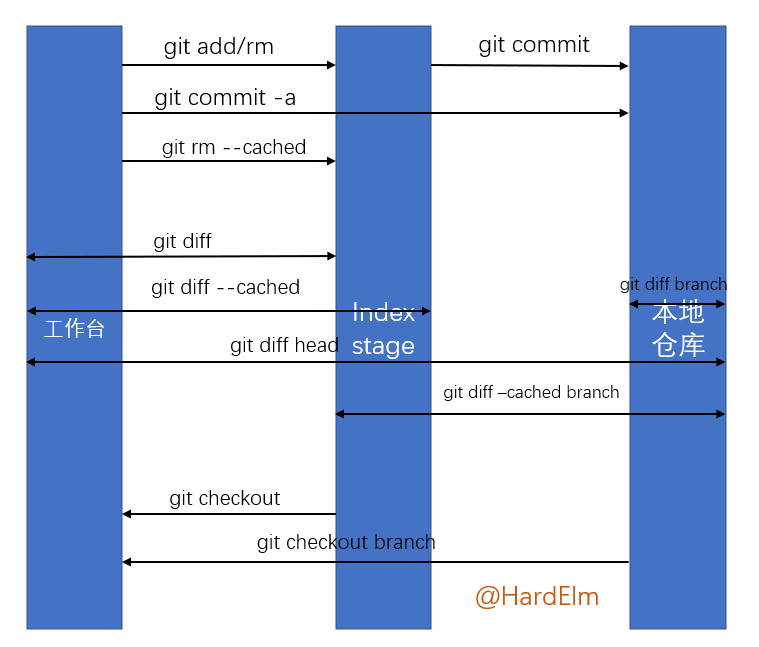
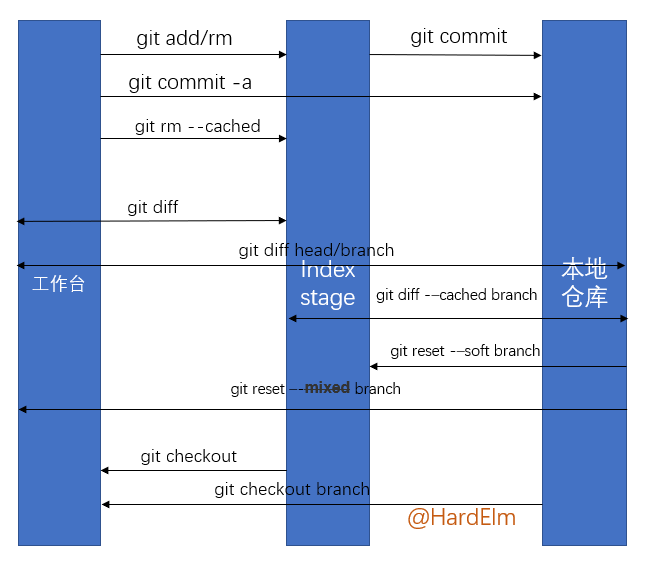
git流程图修改

Changed region(s): [[0.0, 0.03, 0.9682, 0.9912]]

diff --git a/post/git常用命令/index.html b/post/git常用命令/index.html
@@ -76,7 +76,7 @@
 <meta itemprop="name" content="Git常用命令">
 <meta itemprop="description" content="常规流程 init本地初始化&ndash;&gt;add更新暂存区&ndash;&gt;commit暂存区更新至版本库&ndash;&gt;p"><meta itemprop="datePublished" content="2023-03-02T23:56:03+00:00" />
 <meta itemprop="dateModified" content="2023-03-02T23:56:03+00:00" />
-<meta itemprop="wordCount" content="1015">
+<meta itemprop="wordCount" content="1084">
 <meta itemprop="keywords" content="Git," /><meta name="twitter:card" content="summary"/>
 <meta name="twitter:title" content="Git常用命令"/>
 <meta name="twitter:description" content="常规流程 init本地初始化&ndash;&gt;add更新暂存区&ndash;&gt;commit暂存区更新至版本库&ndash;&gt;p"/>
@@ -301,7 +301,7 @@
 
   <div class="post-meta__right">
     <span class="post-meta-more">
-        约 1015 字 -
+        约 1084 字 -
         预计阅读 3 分钟
       </span>
 
@@ -348,24 +348,28 @@
 </span></span><span style="display:flex;"><span style="white-space:pre;user-select:none;margin-right:0.4em;padding:0 0.4em 0 0.4em;color:#7f7f7f" id="hl-3-2"><a style="outline:none;text-decoration:none;color:inherit" href="#hl-3-2">2</a></span><span>git merge &lt;库&gt;/&lt;分支&gt; #提取数据并尝试合并到当前分支
 </span></span><span style="display:flex;"><span style="white-space:pre;user-select:none;margin-right:0.4em;padding:0 0.4em 0 0.4em;color:#7f7f7f" id="hl-3-3"><a style="outline:none;text-decoration:none;color:inherit" href="#hl-3-3">3</a></span><span>
 </span></span><span style="display:flex;"><span style="white-space:pre;user-select:none;margin-right:0.4em;padding:0 0.4em 0 0.4em;color:#7f7f7f" id="hl-3-4"><a style="outline:none;text-decoration:none;color:inherit" href="#hl-3-4">4</a></span><span>git pull &lt;远程库&gt; &lt;远程分支&gt;:&lt;本地分支&gt; #拉取远程库的分支至本地，与本地分支合并
+</span></span></code></pre></div><h3 id="diff">diff</h3>
+<div class="highlight"><pre tabindex="0" style="background-color:#fff;-moz-tab-size:4;-o-tab-size:4;tab-size:4;"><code class="language-fallback" data-lang="fallback"><span style="display:flex;"><span style="white-space:pre;user-select:none;margin-right:0.4em;padding:0 0.4em 0 0.4em;color:#7f7f7f" id="hl-4-1"><a style="outline:none;text-decoration:none;color:inherit" href="#hl-4-1">1</a></span><span>git diff #比较工作台与暂存区区别
+</span></span><span style="display:flex;"><span style="white-space:pre;user-select:none;margin-right:0.4em;padding:0 0.4em 0 0.4em;color:#7f7f7f" id="hl-4-2"><a style="outline:none;text-decoration:none;color:inherit" href="#hl-4-2">2</a></span><span>git diff --cached &lt;版本&gt; #比较暂存区与本地库区别
+</span></span><span style="display:flex;"><span style="white-space:pre;user-select:none;margin-right:0.4em;padding:0 0.4em 0 0.4em;color:#7f7f7f" id="hl-4-3"><a style="outline:none;text-decoration:none;color:inherit" href="#hl-4-3">3</a></span><span>git diff head/&lt;版本&gt; #比较本地库与工作台区别
 </span></span></code></pre></div><h3 id="reset和revert">reset和revert</h3>
-<div class="highlight"><pre tabindex="0" style="background-color:#fff;-moz-tab-size:4;-o-tab-size:4;tab-size:4;"><code class="language-fallback" data-lang="fallback"><span style="display:flex;"><span style="white-space:pre;user-select:none;margin-right:0.4em;padding:0 0.4em 0 0.4em;color:#7f7f7f" id="hl-4-1"><a style="outline:none;text-decoration:none;color:inherit" href="#hl-4-1">1</a></span><span>git reset head #取消当前版本在暂存区的缓存
-</span></span><span style="display:flex;"><span style="white-space:pre;user-select:none;margin-right:0.4em;padding:0 0.4em 0 0.4em;color:#7f7f7f" id="hl-4-2"><a style="outline:none;text-decoration:none;color:inherit" href="#hl-4-2">2</a></span><span>git reset --mixed &lt;版本&gt; #回退至指定版本 （回退重置到工作区）
-</span></span><span style="display:flex;"><span style="white-space:pre;user-select:none;margin-right:0.4em;padding:0 0.4em 0 0.4em;color:#7f7f7f" id="hl-4-3"><a style="outline:none;text-decoration:none;color:inherit" href="#hl-4-3">3</a></span><span>#mixed为默认参数可省略，用于重置暂存区的文件与回退版本提交(commit)保持一致，工作区文件内容保持不变
-</span></span><span style="display:flex;"><span style="white-space:pre;user-select:none;margin-right:0.4em;padding:0 0.4em 0 0.4em;color:#7f7f7f" id="hl-4-4"><a style="outline:none;text-decoration:none;color:inherit" href="#hl-4-4">4</a></span><span>git reset --soft &lt;版本&gt; #回退到指定版本（回退操作止步暂存区）
-</span></span><span style="display:flex;"><span style="white-space:pre;user-select:none;margin-right:0.4em;padding:0 0.4em 0 0.4em;color:#7f7f7f" id="hl-4-5"><a style="outline:none;text-decoration:none;color:inherit" href="#hl-4-5">5</a></span><span>git reset --hard &lt;版本&gt; #回退且删除版本间信息提交（慎用）
-</span></span><span style="display:flex;"><span style="white-space:pre;user-select:none;margin-right:0.4em;padding:0 0.4em 0 0.4em;color:#7f7f7f" id="hl-4-6"><a style="outline:none;text-decoration:none;color:inherit" href="#hl-4-6">6</a></span><span>
-</span></span><span style="display:flex;"><span style="white-space:pre;user-select:none;margin-right:0.4em;padding:0 0.4em 0 0.4em;color:#7f7f7f" id="hl-4-7"><a style="outline:none;text-decoration:none;color:inherit" href="#hl-4-7">7</a></span><span>git revert &lt;版本&gt; #reflog取得commit哈希值，撤销后重新push
-</span></span><span style="display:flex;"><span style="white-space:pre;user-select:none;margin-right:0.4em;padding:0 0.4em 0 0.4em;color:#7f7f7f" id="hl-4-8"><a style="outline:none;text-decoration:none;color:inherit" href="#hl-4-8">8</a></span><span>#revert相当于做出反向变动，push后起到对指定的commit的抵消作用
+<div class="highlight"><pre tabindex="0" style="background-color:#fff;-moz-tab-size:4;-o-tab-size:4;tab-size:4;"><code class="language-fallback" data-lang="fallback"><span style="display:flex;"><span style="white-space:pre;user-select:none;margin-right:0.4em;padding:0 0.4em 0 0.4em;color:#7f7f7f" id="hl-5-1"><a style="outline:none;text-decoration:none;color:inherit" href="#hl-5-1">1</a></span><span>git reset head #取消当前版本在暂存区的缓存
+</span></span><span style="display:flex;"><span style="white-space:pre;user-select:none;margin-right:0.4em;padding:0 0.4em 0 0.4em;color:#7f7f7f" id="hl-5-2"><a style="outline:none;text-decoration:none;color:inherit" href="#hl-5-2">2</a></span><span>git reset --mixed &lt;版本&gt; #回退至指定版本 （回退重置到工作区）
+</span></span><span style="display:flex;"><span style="white-space:pre;user-select:none;margin-right:0.4em;padding:0 0.4em 0 0.4em;color:#7f7f7f" id="hl-5-3"><a style="outline:none;text-decoration:none;color:inherit" href="#hl-5-3">3</a></span><span>#mixed为默认参数可省略，用于重置暂存区的文件与回退版本提交(commit)保持一致，工作区文件内容保持不变
+</span></span><span style="display:flex;"><span style="white-space:pre;user-select:none;margin-right:0.4em;padding:0 0.4em 0 0.4em;color:#7f7f7f" id="hl-5-4"><a style="outline:none;text-decoration:none;color:inherit" href="#hl-5-4">4</a></span><span>git reset --soft &lt;版本&gt; #回退到指定版本（回退操作止步暂存区）
+</span></span><span style="display:flex;"><span style="white-space:pre;user-select:none;margin-right:0.4em;padding:0 0.4em 0 0.4em;color:#7f7f7f" id="hl-5-5"><a style="outline:none;text-decoration:none;color:inherit" href="#hl-5-5">5</a></span><span>git reset --hard &lt;版本&gt; #回退且删除版本间信息提交（慎用）
+</span></span><span style="display:flex;"><span style="white-space:pre;user-select:none;margin-right:0.4em;padding:0 0.4em 0 0.4em;color:#7f7f7f" id="hl-5-6"><a style="outline:none;text-decoration:none;color:inherit" href="#hl-5-6">6</a></span><span>
+</span></span><span style="display:flex;"><span style="white-space:pre;user-select:none;margin-right:0.4em;padding:0 0.4em 0 0.4em;color:#7f7f7f" id="hl-5-7"><a style="outline:none;text-decoration:none;color:inherit" href="#hl-5-7">7</a></span><span>git revert &lt;版本&gt; #reflog取得commit哈希值，撤销后重新push
+</span></span><span style="display:flex;"><span style="white-space:pre;user-select:none;margin-right:0.4em;padding:0 0.4em 0 0.4em;color:#7f7f7f" id="hl-5-8"><a style="outline:none;text-decoration:none;color:inherit" href="#hl-5-8">8</a></span><span>#revert相当于做出反向变动，push后起到对指定的commit的抵消作用
 </span></span></code></pre></div><h3 id="remote">remote</h3>
 <p>remote用来操作配置远程仓库</p>
-<div class="highlight"><pre tabindex="0" style="background-color:#fff;-moz-tab-size:4;-o-tab-size:4;tab-size:4;"><code class="language-fallback" data-lang="fallback"><span style="display:flex;"><span style="white-space:pre;user-select:none;margin-right:0.4em;padding:0 0.4em 0 0.4em;color:#7f7f7f" id="hl-5-1"><a style="outline:none;text-decoration:none;color:inherit" href="#hl-5-1">1</a></span><span>git remote -v 
-</span></span><span style="display:flex;"><span style="white-space:pre;user-select:none;margin-right:0.4em;padding:0 0.4em 0 0.4em;color:#7f7f7f" id="hl-5-2"><a style="outline:none;text-decoration:none;color:inherit" href="#hl-5-2">2</a></span><span>git remote show &lt;仓库名&gt;
-</span></span><span style="display:flex;"><span style="white-space:pre;user-select:none;margin-right:0.4em;padding:0 0.4em 0 0.4em;color:#7f7f7f" id="hl-5-3"><a style="outline:none;text-decoration:none;color:inherit" href="#hl-5-3">3</a></span><span>git remote add &lt;新仓库&gt; &lt;url&gt; #向远程主机提交新仓库
-</span></span><span style="display:flex;"><span style="white-space:pre;user-select:none;margin-right:0.4em;padding:0 0.4em 0 0.4em;color:#7f7f7f" id="hl-5-4"><a style="outline:none;text-decoration:none;color:inherit" href="#hl-5-4">4</a></span><span>git push -u &lt;仓库&gt;&lt;分支&gt;
-</span></span><span style="display:flex;"><span style="white-space:pre;user-select:none;margin-right:0.4em;padding:0 0.4em 0 0.4em;color:#7f7f7f" id="hl-5-5"><a style="outline:none;text-decoration:none;color:inherit" href="#hl-5-5">5</a></span><span>
-</span></span><span style="display:flex;"><span style="white-space:pre;user-select:none;margin-right:0.4em;padding:0 0.4em 0 0.4em;color:#7f7f7f" id="hl-5-6"><a style="outline:none;text-decoration:none;color:inherit" href="#hl-5-6">6</a></span><span>git remote rm &lt;仓库名&gt; #删除远程仓库
-</span></span><span style="display:flex;"><span style="white-space:pre;user-select:none;margin-right:0.4em;padding:0 0.4em 0 0.4em;color:#7f7f7f" id="hl-5-7"><a style="outline:none;text-decoration:none;color:inherit" href="#hl-5-7">7</a></span><span>git remote rename &lt;旧名称&gt; &lt;新名称&gt; #修改远程仓库名
+<div class="highlight"><pre tabindex="0" style="background-color:#fff;-moz-tab-size:4;-o-tab-size:4;tab-size:4;"><code class="language-fallback" data-lang="fallback"><span style="display:flex;"><span style="white-space:pre;user-select:none;margin-right:0.4em;padding:0 0.4em 0 0.4em;color:#7f7f7f" id="hl-6-1"><a style="outline:none;text-decoration:none;color:inherit" href="#hl-6-1">1</a></span><span>git remote -v 
+</span></span><span style="display:flex;"><span style="white-space:pre;user-select:none;margin-right:0.4em;padding:0 0.4em 0 0.4em;color:#7f7f7f" id="hl-6-2"><a style="outline:none;text-decoration:none;color:inherit" href="#hl-6-2">2</a></span><span>git remote show &lt;仓库名&gt;
+</span></span><span style="display:flex;"><span style="white-space:pre;user-select:none;margin-right:0.4em;padding:0 0.4em 0 0.4em;color:#7f7f7f" id="hl-6-3"><a style="outline:none;text-decoration:none;color:inherit" href="#hl-6-3">3</a></span><span>git remote add &lt;新仓库&gt; &lt;url&gt; #向远程主机提交新仓库
+</span></span><span style="display:flex;"><span style="white-space:pre;user-select:none;margin-right:0.4em;padding:0 0.4em 0 0.4em;color:#7f7f7f" id="hl-6-4"><a style="outline:none;text-decoration:none;color:inherit" href="#hl-6-4">4</a></span><span>git push -u &lt;仓库&gt;&lt;分支&gt;
+</span></span><span style="display:flex;"><span style="white-space:pre;user-select:none;margin-right:0.4em;padding:0 0.4em 0 0.4em;color:#7f7f7f" id="hl-6-5"><a style="outline:none;text-decoration:none;color:inherit" href="#hl-6-5">5</a></span><span>
+</span></span><span style="display:flex;"><span style="white-space:pre;user-select:none;margin-right:0.4em;padding:0 0.4em 0 0.4em;color:#7f7f7f" id="hl-6-6"><a style="outline:none;text-decoration:none;color:inherit" href="#hl-6-6">6</a></span><span>git remote rm &lt;仓库名&gt; #删除远程仓库
+</span></span><span style="display:flex;"><span style="white-space:pre;user-select:none;margin-right:0.4em;padding:0 0.4em 0 0.4em;color:#7f7f7f" id="hl-6-7"><a style="outline:none;text-decoration:none;color:inherit" href="#hl-6-7">7</a></span><span>git remote rename &lt;旧名称&gt; &lt;新名称&gt; #修改远程仓库名
 </span></span></code></pre></div><p>git工作流程参阅：<a href="https://hardelmm.github.io/post/git%E6%B5%81%E7%A8%8B%E8%AF%A6%E8%A7%A3/">《Git流程详解》</a></p>
 
         </div>
@@ -495,6 +499,7 @@
         <li><a href="#add和commit">add和commit</a></li>
         <li><a href="#push">push</a></li>
         <li><a href="#fetch和pull">fetch和pull</a></li>
+        <li><a href="#diff">diff</a></li>
         <li><a href="#reset和revert">reset和revert</a></li>
         <li><a href="#remote">remote</a></li>
       </ul>

diff --git a/post/git流程详解/index.html b/post/git流程详解/index.html
@@ -29,7 +29,7 @@
 <meta name="mobile-web-app-capable" content="yes">
 
 <meta name="author" content="HardElm" />
-  <meta name="description" content="本文简要介绍git存储 一.Git工作流程 常用操作流程模型👇 工作区与仓库流程模型👇 工作区与仓库内部流程模型👇 二.Git存储原理以及部分实现 git" />
+  <meta name="description" content="本文简要介绍git对象生命周期变化、文件结构以及作用 一.Git工作流程 常用操作流程模型👇 工作区与仓库流程模型👇 工作区与仓库内部流程模型👇 二." />
 
   <meta name="keywords" content="Hugo, theme, jane" />
 
@@ -68,18 +68,18 @@
 
 
 <meta property="og:title" content="Git流程详解" />
-<meta property="og:description" content="本文简要介绍git存储 一.Git工作流程 常用操作流程模型👇 工作区与仓库流程模型👇 工作区与仓库内部流程模型👇 二.Git存储原理以及部分实现 git" />
+<meta property="og:description" content="本文简要介绍git对象生命周期变化、文件结构以及作用 一.Git工作流程 常用操作流程模型👇 工作区与仓库流程模型👇 工作区与仓库内部流程模型👇 二." />
 <meta property="og:type" content="article" />
 <meta property="og:url" content="https://hardelmm.github.io/post/git%E6%B5%81%E7%A8%8B%E8%AF%A6%E8%A7%A3/" /><meta property="article:section" content="post" />
 <meta property="article:published_time" content="2023-03-02T23:45:28+00:00" />
 <meta property="article:modified_time" content="2023-03-02T23:45:28+00:00" />
 <meta itemprop="name" content="Git流程详解">
-<meta itemprop="description" content="本文简要介绍git存储 一.Git工作流程 常用操作流程模型👇 工作区与仓库流程模型👇 工作区与仓库内部流程模型👇 二.Git存储原理以及部分实现 git"><meta itemprop="datePublished" content="2023-03-02T23:45:28+00:00" />
+<meta itemprop="description" content="本文简要介绍git对象生命周期变化、文件结构以及作用 一.Git工作流程 常用操作流程模型👇 工作区与仓库流程模型👇 工作区与仓库内部流程模型👇 二."><meta itemprop="datePublished" content="2023-03-02T23:45:28+00:00" />
 <meta itemprop="dateModified" content="2023-03-02T23:45:28+00:00" />
-<meta itemprop="wordCount" content="69">
+<meta itemprop="wordCount" content="97">
 <meta itemprop="keywords" content="Git," /><meta name="twitter:card" content="summary"/>
 <meta name="twitter:title" content="Git流程详解"/>
-<meta name="twitter:description" content="本文简要介绍git存储 一.Git工作流程 常用操作流程模型👇 工作区与仓库流程模型👇 工作区与仓库内部流程模型👇 二.Git存储原理以及部分实现 git"/>
+<meta name="twitter:description" content="本文简要介绍git对象生命周期变化、文件结构以及作用 一.Git工作流程 常用操作流程模型👇 工作区与仓库流程模型👇 工作区与仓库内部流程模型👇 二."/>
 
 <!--[if lte IE 9]>
   <script src="https://cdnjs.cloudflare.com/ajax/libs/classlist/1.1.20170427/classList.min.js"></script>
@@ -301,7 +301,7 @@
 
   <div class="post-meta__right">
     <span class="post-meta-more">
-        约 69 字 -
+        约 97 字 -
         预计阅读 1 分钟
       </span>
 
@@ -321,7 +321,7 @@
 
         
         <div class="post-content">
-          <p>本文简要介绍git存储</p>
+          <p>本文简要介绍git对象生命周期变化、文件结构以及作用</p>
 <h3 id="一git工作流程">一.Git工作流程</h3>
 <p>常用操作流程模型👇</p>
 <p><img src="/img/Git%E6%B5%81%E7%A8%8B%E8%AF%A6%E8%A7%A3/git%E6%B5%81%E7%A8%8B%E5%9B%BE1.png" alt="git流程图1.png"></p>
@@ -330,7 +330,7 @@
 <p>工作区与仓库内部流程模型👇</p>
 <p><img src="/img/Git%E6%B5%81%E7%A8%8B%E8%AF%A6%E8%A7%A3/git%E6%B5%81%E7%A8%8B%E5%9B%BE3.png" alt="git流程图3.png"></p>
 <h3 id="二git存储原理以及部分实现">二.Git存储原理以及部分实现</h3>
-<p>git</p>
+<p>git分布式管理系统本质上是</p>
 
         </div>
 

diff --git a/index.html b/index.html
@@ -303,7 +303,7 @@
 
   <div class="post-meta__right">
     <span class="post-meta-more">
-        约 1015 字 -
+        约 1084 字 -
         预计阅读 3 分钟
       </span>
 
@@ -358,7 +358,7 @@
 
   <div class="post-meta__right">
     <span class="post-meta-more">
-        约 69 字 -
+        约 97 字 -
         预计阅读 1 分钟
       </span>
 
@@ -379,7 +379,7 @@
   <div class="post-content">
     
       <div class="post-summary">
-        本文简要介绍git存储 一.Git工作流程 常用操作流程模型👇 工作区与仓库流程模型👇 工作区与仓库内部流程模型👇 二.Git存储原理以及部分实现 git
+        本文简要介绍git对象生命周期变化、文件结构以及作用 一.Git工作流程 常用操作流程模型👇 工作区与仓库流程模型👇 工作区与仓库内部流程模型👇 二.
       </div>
       <div class="read-more">
         <a href="/post/git%E6%B5%81%E7%A8%8B%E8%AF%A6%E8%A7%A3/" class="read-more-link"
